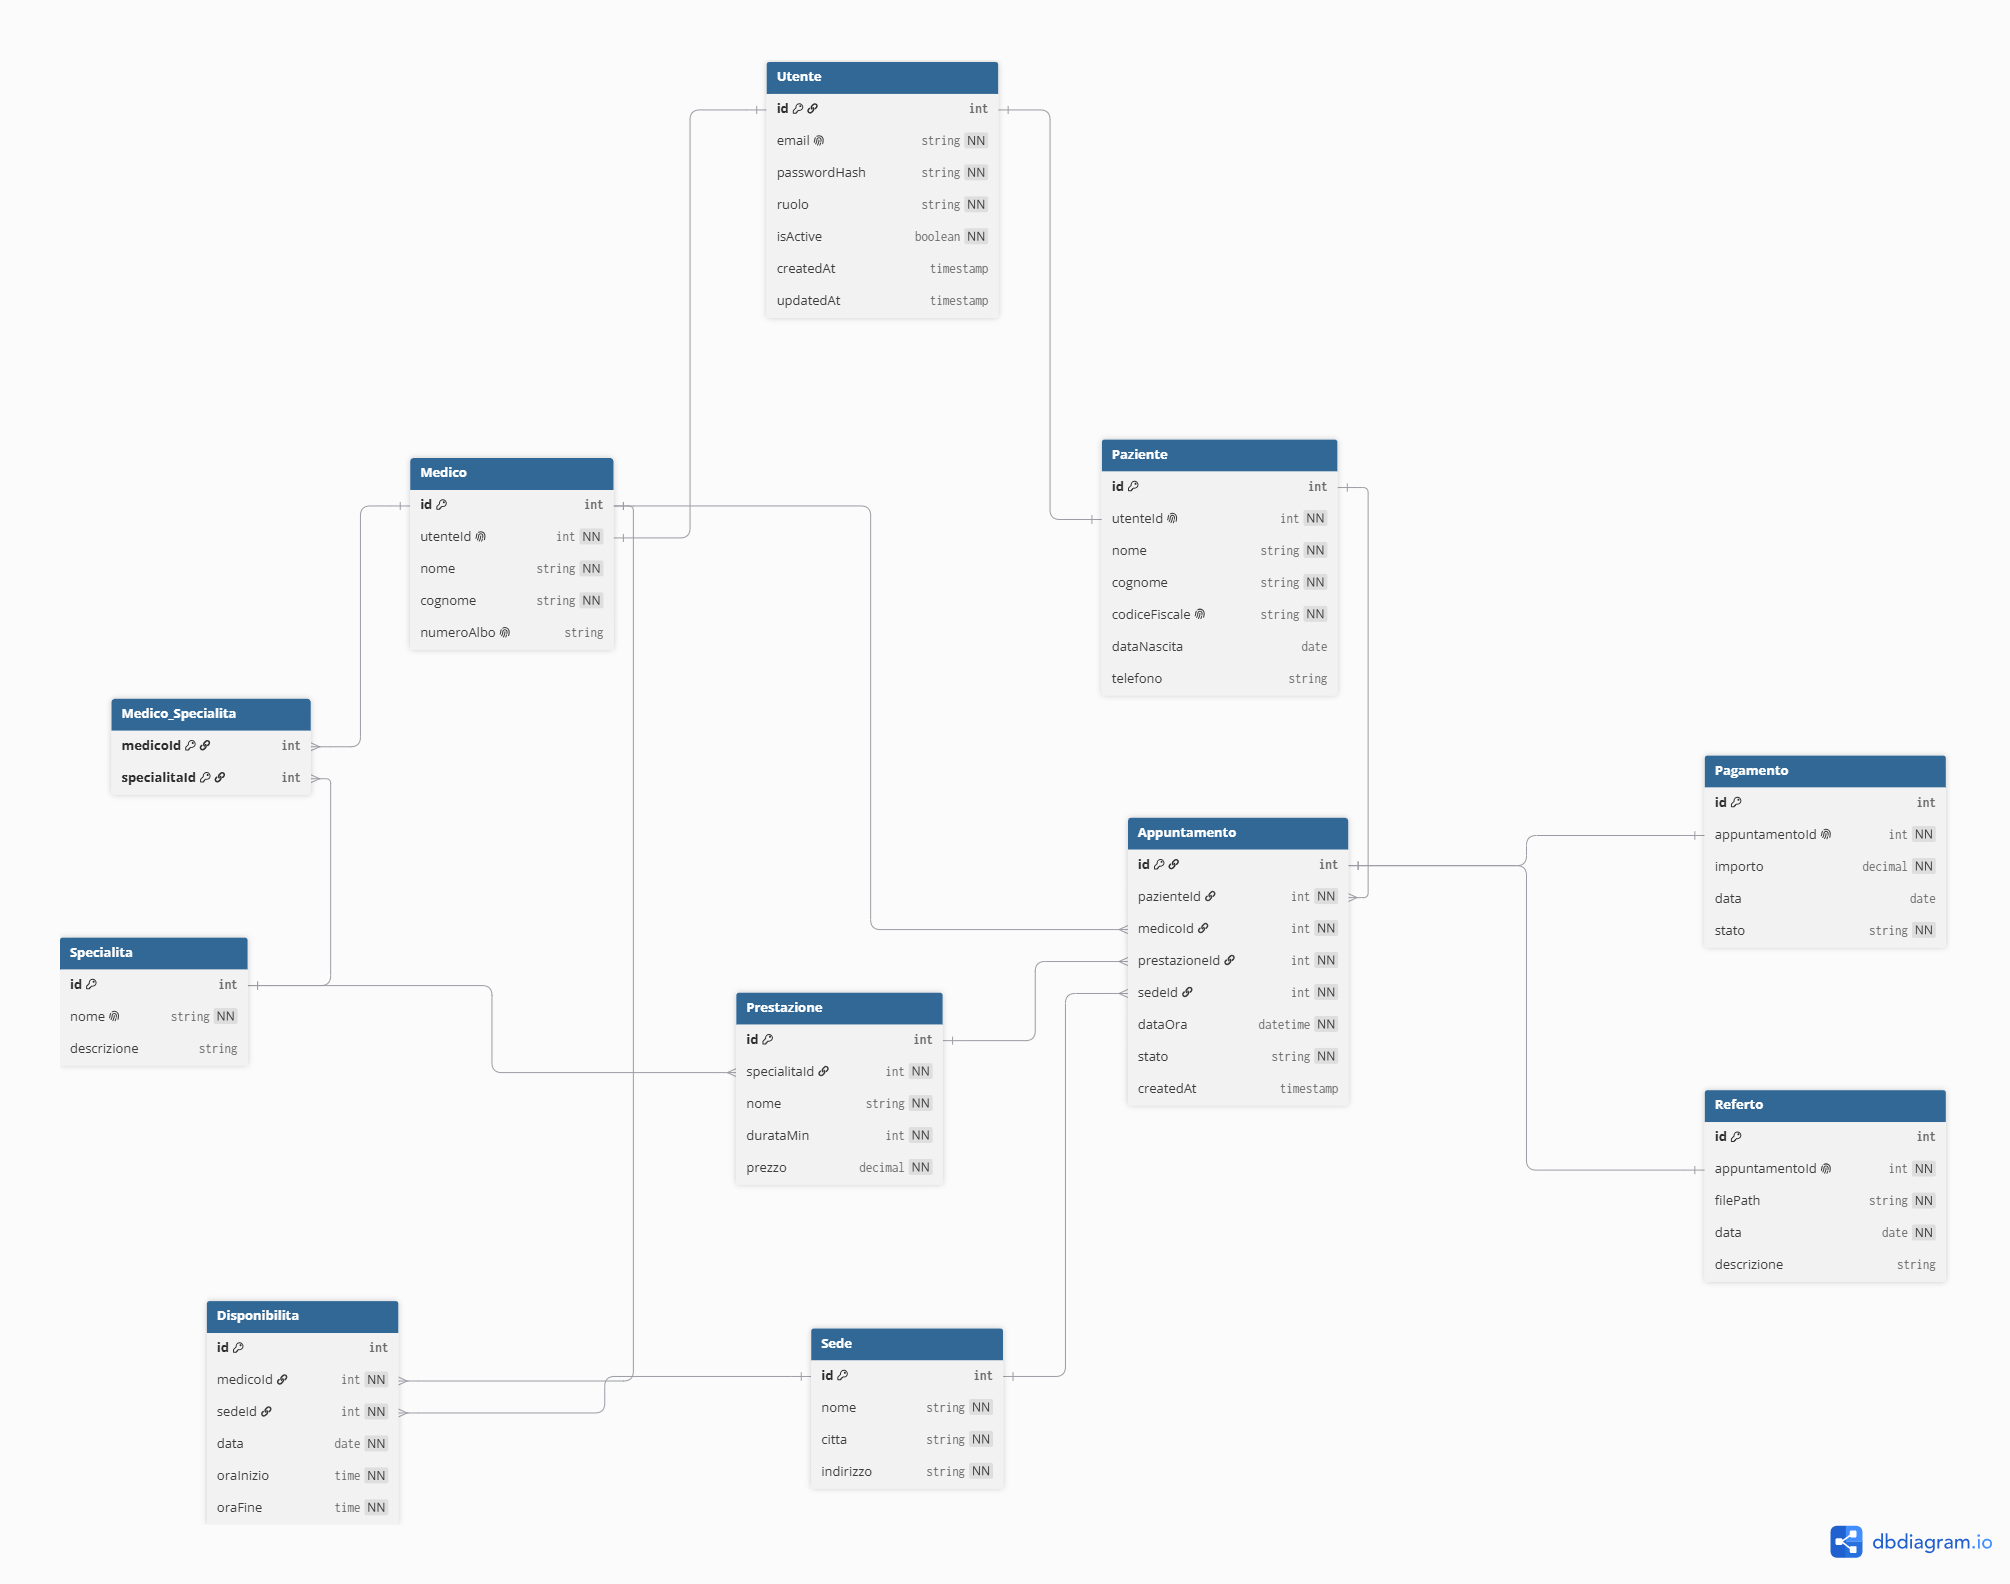
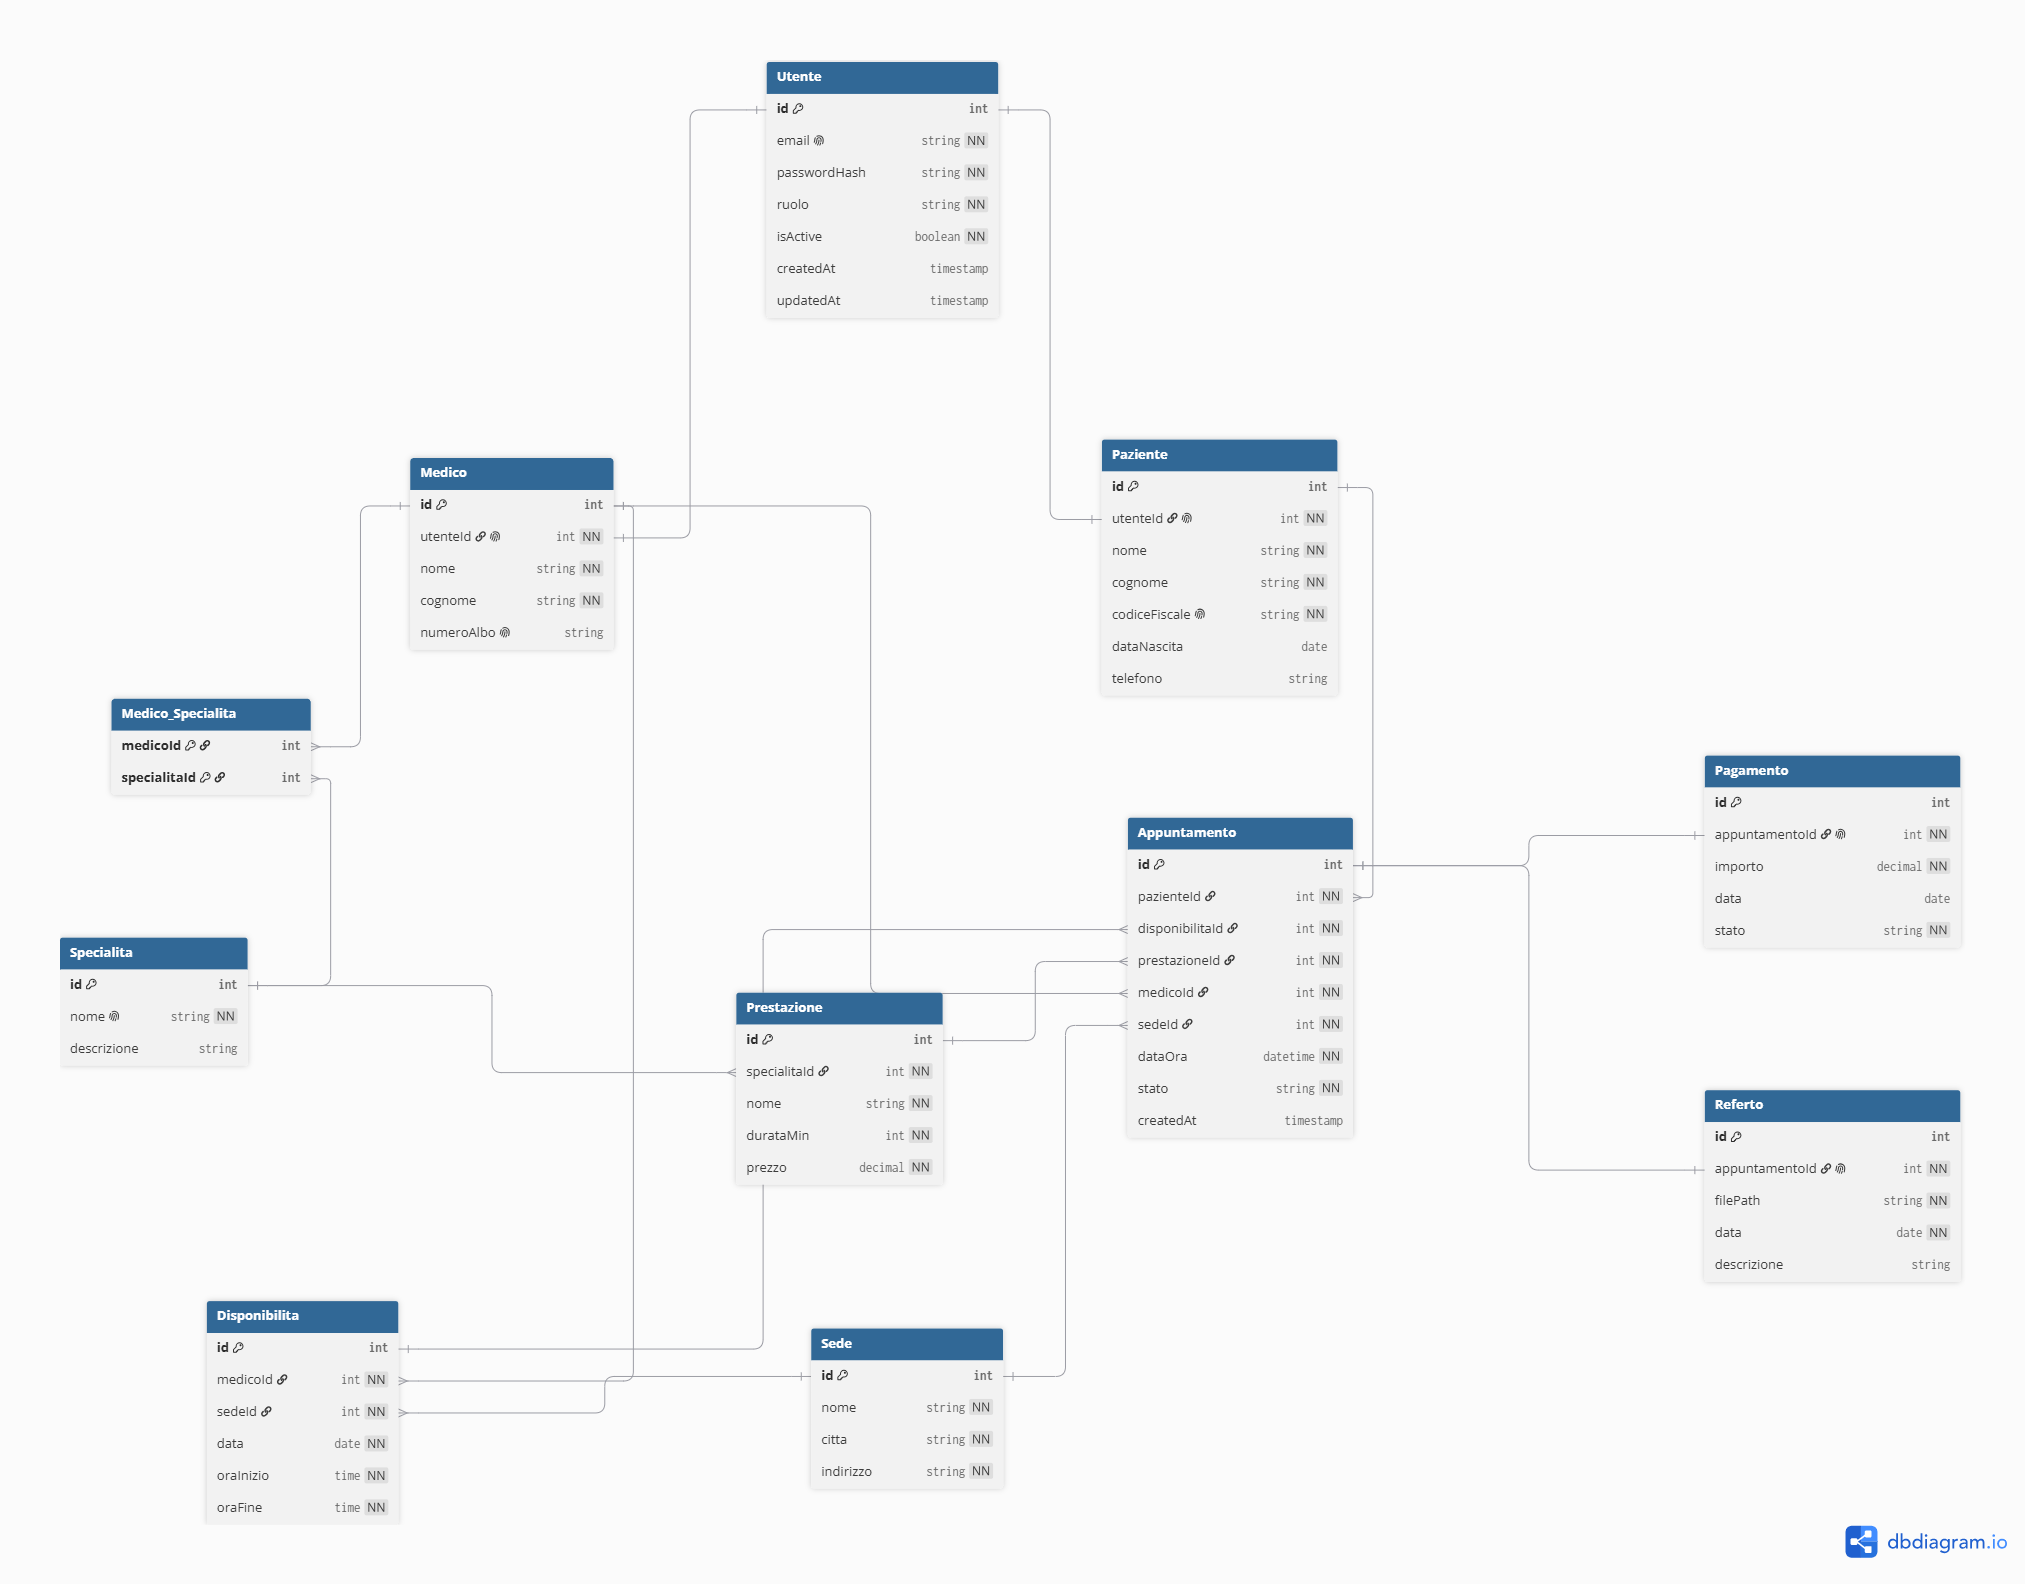
Creati i modelli SQLAlchemy Utente, Paziente, Medico; corretta la direzione delle foreign key nel diagramma ER

diff --git a/backend/models/utente.py b/backend/models/utente.py
@@ -1,0 +1,23 @@
+from datetime import datetime
+
+from sqlalchemy import Boolean, DateTime, String, func
+from sqlalchemy.orm import Mapped, mapped_column, relationship
+
+from core.database import Base
+
+
+class Utente(Base):
+    __tablename__ = "utenti"
+
+    id: Mapped[int] = mapped_column(primary_key=True)
+    email: Mapped[str] = mapped_column(String, unique=True, index=True, nullable=False)
+    password_hash: Mapped[str] = mapped_column(String, nullable=False)
+    ruolo: Mapped[str] = mapped_column(String, nullable=False)
+    is_active: Mapped[bool] = mapped_column(Boolean, default=True, nullable=False)
+    created_at: Mapped[datetime] = mapped_column(DateTime, server_default=func.now())
+    updated_at: Mapped[datetime] = mapped_column(
+        DateTime, server_default=func.now(), onupdate=func.now()
+    )
+
+    paziente: Mapped["Paziente"] = relationship(back_populates="utente", uselist=False)
+    medico: Mapped["Medico"] = relationship(back_populates="utente", uselist=False)

diff --git a/backend/models/paziente.py b/backend/models/paziente.py
@@ -1,0 +1,23 @@
+from datetime import date
+
+from sqlalchemy import Date, ForeignKey, String
+from sqlalchemy.orm import Mapped, mapped_column, relationship
+
+from core.database import Base
+
+
+class Paziente(Base):
+    __tablename__ = "pazienti"
+
+    id: Mapped[int] = mapped_column(primary_key=True)
+    utente_id: Mapped[int] = mapped_column(
+        ForeignKey("utenti.id"), unique=True, nullable=False
+    )
+    nome: Mapped[str] = mapped_column(String, nullable=False)
+    cognome: Mapped[str] = mapped_column(String, nullable=False)
+    codice_fiscale: Mapped[str] = mapped_column(String, unique=True, nullable=False)
+    data_nascita: Mapped[date | None] = mapped_column(Date)
+    telefono: Mapped[str | None] = mapped_column(String)
+
+    utente: Mapped["Utente"] = relationship(back_populates="paziente")
+    

diff --git a/backend/models/medico.py b/backend/models/medico.py
@@ -1,0 +1,18 @@
+from sqlalchemy import ForeignKey, String
+from sqlalchemy.orm import Mapped, mapped_column, relationship
+
+from core.database import Base
+
+
+class Medico(Base):
+    __tablename__ = "medici"
+
+    id: Mapped[int] = mapped_column(primary_key=True)
+    utente_id: Mapped[int] = mapped_column(
+        ForeignKey("utenti.id"), unique=True, nullable=False
+    )
+    nome: Mapped[str] = mapped_column(String, nullable=False)
+    cognome: Mapped[str] = mapped_column(String, nullable=False)
+    numero_albo: Mapped[str | None] = mapped_column(String, unique=True)
+
+    utente: Mapped["Utente"] = relationship(back_populates="medico")

diff --git a/backend/models/__init__.py b/backend/models/__init__.py
@@ -1,0 +1,5 @@
+from models.medico import Medico
+from models.paziente import Paziente
+from models.utente import Utente
+
+__all__ = ["Utente", "Paziente", "Medico"]

diff --git a/diario.md b/diario.md
@@ -2,7 +2,7 @@
 
 ## Log Commit Recenti
 
-### 2026-08-10 — ~4h50min
+### 2026-08-10 — ~5h20min
 
 - **~30 min** — Inizializzazione progetto, aggiunto .gitignore e diario.md
 - **~10 min** — Aggiunta documentazione: diagramma UML casi d'uso, architettura a livelli, diagramma ER, gerarchia dei repository (diagrammi già predisposti nella fase di progettazione)
@@ -13,6 +13,7 @@
 - **~5 min** — Creata struttura a livelli del backend: routers, services, repositories, models, schemas, core
 - **~15 min** — Creato core/config.py per leggere le variabili da .env con pydantic-settings
 - **~20 min** — Creato core/database.py: engine SQLAlchemy (SQLite) e get_db() come dependency
+- **~30 min** — Creati i modelli SQLAlchemy Utente, Paziente, Medico; corretta la direzione delle foreign key nel diagramma ER
 
 **Attività**
 - Riorganizzata la struttura del backend eliminando un livello di cartelle superfluo
